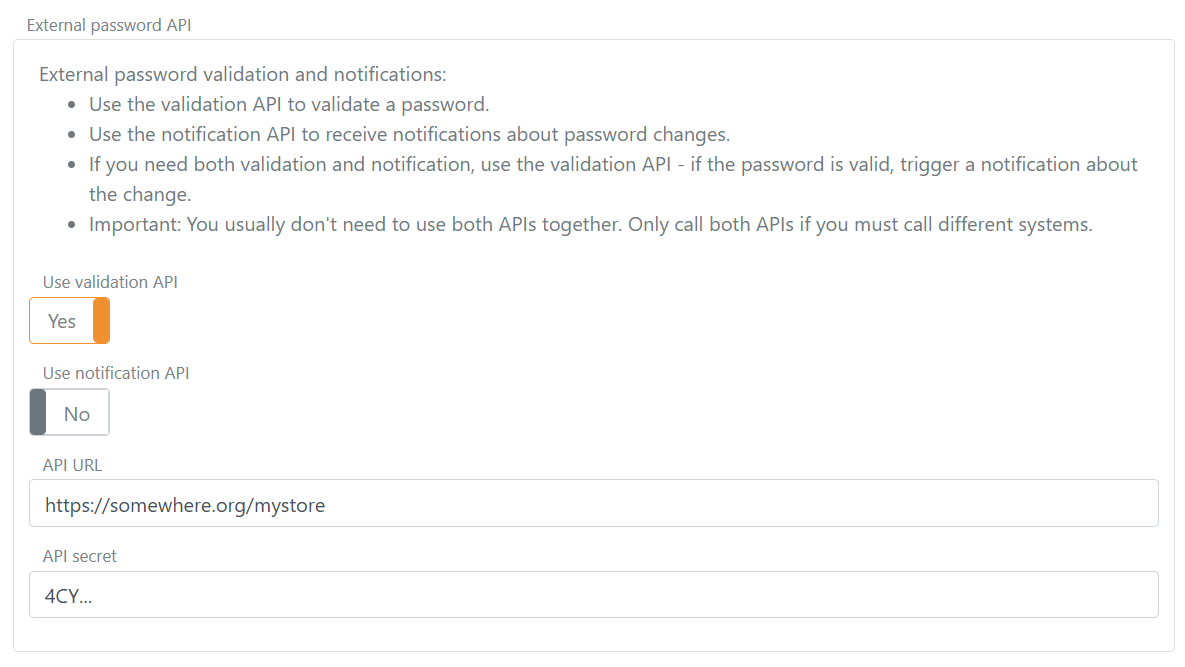
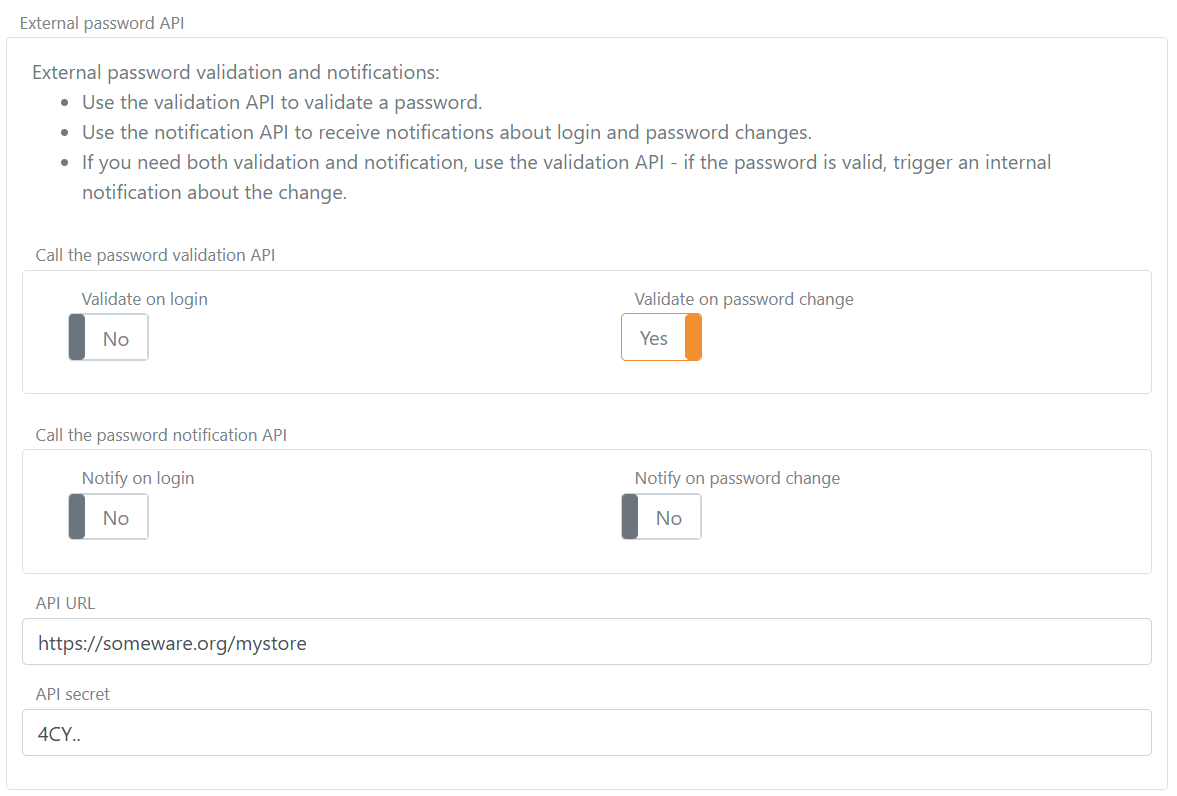
Adds granular controls for the External Password API so you can independently enable calls to the Validation and Notification endpoints

Changed region(s): [[0.0, 0.0, 0.9788, 0.7196], [0.0, 0.7496, 0.2753, 0.9295], [0.52, 0.5997, 0.7035, 0.6897]]

diff --git a/src/FoxIDs/Logic/Tracks/ExternalPasswordConnectLogic.cs b/src/FoxIDs/Logic/Tracks/ExternalPasswordConnectLogic.cs
@@ -26,9 +26,10 @@ namespace FoxIDs.Logic
 
         public async Task ValidatePasswordAsync(UserIdentifier userIdentifier, string password, PasswordState state)
         {
-            if (Config?.EnabledValidation != true) return;
+            var externalPassword = RouteBinding.ExternalPassword;
+            if (externalPassword == null || (!externalPassword.EnabledValidationCurrent && !externalPassword.EnabledValidationNew)) return;
 
-            var url = UrlCombine.Combine(Config.ApiUrl, Constants.ExternalConnect.ExternalPassword.Api.Validation);
+            var url = UrlCombine.Combine(externalPassword.ApiUrl, Constants.ExternalConnect.ExternalPassword.Api.Validation);
             logger.ScopeTrace(() => $"External password, Validation API request, URL '{url}'.", traceType: TraceTypes.Message);
 
             var request = new Ext.PasswordRequest
@@ -43,8 +44,8 @@ namespace FoxIDs.Logic
             logger.ScopeTrace(() => $"External password, Validation API request '{new { request.Email, request.Phone, request.Username, password = "hidden" }.ToJson()}'.", traceType: TraceTypes.Message);
 
             var httpClient = httpClientFactory.CreateClient();
-            logger.ScopeTrace(() => $"External password, Validation API secret '{(Config.Secret?.Length > 10 ? $"{Config.Secret.Substring(0, 3)}..." : "hidden")}'.", traceType: TraceTypes.Message);
-            httpClient.DefaultRequestHeaders.Authorization = new AuthenticationHeaderValue(IdentityConstants.BasicAuthentication.Basic, $"{Constants.ExternalConnect.ExternalPassword.Api.ApiId.OAuthUrlDencode()}:{Config.Secret.OAuthUrlDencode()}".Base64Encode());
+            logger.ScopeTrace(() => $"External password, Validation API secret '{(externalPassword.Secret?.Length > 10 ? $"{externalPassword.Secret.Substring(0, 3)}..." : "hidden")}'.", traceType: TraceTypes.Message);
+            httpClient.DefaultRequestHeaders.Authorization = new AuthenticationHeaderValue(IdentityConstants.BasicAuthentication.Basic, $"{Constants.ExternalConnect.ExternalPassword.Api.ApiId.OAuthUrlDencode()}:{externalPassword.Secret.OAuthUrlDencode()}".Base64Encode());
 
             try
             {
@@ -66,7 +67,7 @@ namespace FoxIDs.Logic
 
                         if (errorResponse.Error == Constants.ExternalConnect.Api.ErrorCodes.InvalidApiIdOrSecret)
                         {
-                            throw new InvalidAppIdOrSecretException($"Invalid app id '{Constants.ExternalConnect.ExternalPassword.Api.ApiId}' or secret '{(Config.Secret?.Length > 10 ? $"{Config.Secret.Substring(0, 3)}..." : "hidden")}', API URL '{url}'. Status code={response.StatusCode}.{errorResponse.GetErrorMessage()}");
+                            throw new InvalidAppIdOrSecretException($"Invalid app id '{Constants.ExternalConnect.ExternalPassword.Api.ApiId}' or secret '{(externalPassword.Secret?.Length > 10 ? $"{externalPassword.Secret.Substring(0, 3)}..." : "hidden")}', API URL '{url}'. Status code={response.StatusCode}.{errorResponse.GetErrorMessage()}");
                         }
 
                         if (errorResponse.Error == Constants.ExternalConnect.ExternalPassword.Api.ErrorCodes.PasswordNotAccepted)
@@ -103,9 +104,10 @@ namespace FoxIDs.Logic
 
         public async Task PasswordNotificationAsync(UserIdentifier userIdentifier, string password, PasswordState state)
         {
-            if (Config?.EnabledNotification != true) return;
+            var externalPassword = RouteBinding.ExternalPassword;
+            if (externalPassword == null || (!externalPassword.EnabledNotificationCurrent && !externalPassword.EnabledNotificationNew)) return;
 
-            var url = UrlCombine.Combine(Config.ApiUrl, Constants.ExternalConnect.ExternalPassword.Api.Notification);
+            var url = UrlCombine.Combine(externalPassword.ApiUrl, Constants.ExternalConnect.ExternalPassword.Api.Notification);
             logger.ScopeTrace(() => $"External password, Notification API request, URL '{url}'.", traceType: TraceTypes.Message);
 
             var request = new Ext.PasswordRequest
@@ -120,8 +122,8 @@ namespace FoxIDs.Logic
             logger.ScopeTrace(() => $"External password, Notification API request '{new { request.Email, request.Phone, request.Username, password = "hidden" }.ToJson()}'.", traceType: TraceTypes.Message);
 
             var httpClient = httpClientFactory.CreateClient();
-            logger.ScopeTrace(() => $"External password, Notification API secret '{(Config.Secret?.Length > 10 ? $"{Config.Secret.Substring(0, 3)}..." : "hidden")}'.", traceType: TraceTypes.Message);
-            httpClient.DefaultRequestHeaders.Authorization = new AuthenticationHeaderValue(IdentityConstants.BasicAuthentication.Basic, $"{Constants.ExternalConnect.ExternalPassword.Api.ApiId.OAuthUrlDencode()}:{Config.Secret.OAuthUrlDencode()}".Base64Encode());
+            logger.ScopeTrace(() => $"External password, Notification API secret '{(externalPassword.Secret?.Length > 10 ? $"{externalPassword.Secret.Substring(0, 3)}..." : "hidden")}'.", traceType: TraceTypes.Message);
+            httpClient.DefaultRequestHeaders.Authorization = new AuthenticationHeaderValue(IdentityConstants.BasicAuthentication.Basic, $"{Constants.ExternalConnect.ExternalPassword.Api.ApiId.OAuthUrlDencode()}:{externalPassword.Secret.OAuthUrlDencode()}".Base64Encode());
 
             try
             {
@@ -143,7 +145,7 @@ namespace FoxIDs.Logic
 
                         if (errorResponse.Error == Constants.ExternalConnect.Api.ErrorCodes.InvalidApiIdOrSecret)
                         {
-                            throw new InvalidAppIdOrSecretException($"Invalid app id '{Constants.ExternalConnect.ExternalPassword.Api.ApiId}' or secret '{(Config.Secret?.Length > 10 ? $"{Config.Secret.Substring(0, 3)}..." : "hidden")}', API URL '{url}'. Status code={response.StatusCode}.{errorResponse.GetErrorMessage()}");
+                            throw new InvalidAppIdOrSecretException($"Invalid app id '{Constants.ExternalConnect.ExternalPassword.Api.ApiId}' or secret '{(externalPassword.Secret?.Length > 10 ? $"{externalPassword.Secret.Substring(0, 3)}..." : "hidden")}', API URL '{url}'. Status code={response.StatusCode}.{errorResponse.GetErrorMessage()}");
                         }
                         throw new Exception($"External password, Notification API error '{resultError}'. Status code={response.StatusCode}.{errorResponse.GetErrorMessage()}");
 
@@ -166,8 +168,6 @@ namespace FoxIDs.Logic
                 throw new Exception($"Unable to call external password notification API URL '{url}'.", ex);
             }
         }
-
-        private ExternalPassword Config => RouteBinding.ExternalPassword;
 
         private Ext.PasswordState ToExtPasswordState(PasswordState state)
         {

diff --git a/src/FoxIDs/Logic/Login/AccountLogic.cs b/src/FoxIDs/Logic/Login/AccountLogic.cs
@@ -122,14 +122,30 @@ namespace FoxIDs.Logic
         {
             await base.ValidatePasswordPolicyAndNotifyAsync(userIdentifier, password, state);
 
-            if (RouteBinding?.ExternalPassword?.EnabledValidation == true)
+            var externalPassword = RouteBinding.ExternalPassword;
+            if (externalPassword != null)
             {
-                await externalPasswordConnectLogic.ValidatePasswordAsync(userIdentifier, password, state);
-            }
+                var doValidate = state switch
+                {
+                    PasswordState.Current => externalPassword.EnabledValidationCurrent,
+                    PasswordState.New => externalPassword.EnabledValidationNew,
+                    _ => false
+                };
+                if (doValidate)
+                {
+                    await externalPasswordConnectLogic.ValidatePasswordAsync(userIdentifier, password, state);
+                }
 
-            if (RouteBinding?.ExternalPassword?.EnabledNotification == true && state == PasswordState.New)
-            {
-                await externalPasswordConnectLogic.PasswordNotificationAsync(userIdentifier, password, state);
+                var doNotify = state switch
+                {
+                    PasswordState.Current => externalPassword.EnabledNotificationCurrent,
+                    PasswordState.New => externalPassword.EnabledNotificationNew,
+                    _ => false
+                };
+                if (doNotify)
+                {
+                    await externalPasswordConnectLogic.PasswordNotificationAsync(userIdentifier, password, state);
+                }
             }
         }
 

diff --git a/src/FoxIDs.ControlClient/Models/ViewModels/Tracks/ExternalPasswordViewModel.cs b/src/FoxIDs.ControlClient/Models/ViewModels/Tracks/ExternalPasswordViewModel.cs
@@ -7,11 +7,17 @@ namespace FoxIDs.Client.Models.ViewModels
 {
     public class ExternalPasswordViewModel : IValidatableObject
     {
-        [Display(Name = "Use validation API")]
-        public bool EnabledValidation { get; set; }
+        [Display(Name = "Validate on login")]
+        public bool EnabledValidationCurrent { get; set; }
 
-        [Display(Name = "Use notification API")]
-        public bool EnabledNotification { get; set; }
+        [Display(Name = "Validate on password change")]
+        public bool EnabledValidationNew { get; set; }
+
+        [Display(Name = "Notify on login")]
+        public bool EnabledNotificationCurrent { get; set; }
+
+        [Display(Name = "Notify on password change")]
+        public bool EnabledNotificationNew { get; set; }
 
         public ExternalConnectTypes ExternalConnectType { get; set; } = ExternalConnectTypes.Api;
 
@@ -33,7 +39,7 @@ namespace FoxIDs.Client.Models.ViewModels
         {
             var results = new List<ValidationResult>();
 
-            if (EnabledValidation || EnabledNotification)
+            if (EnabledValidationCurrent || EnabledValidationNew || EnabledNotificationCurrent || EnabledNotificationNew)
             {
                 if (ApiUrl.IsNullOrWhiteSpace())
                 {

diff --git a/src/FoxIDs.Shared/Models/Tracks/ExternalPassword.cs b/src/FoxIDs.Shared/Models/Tracks/ExternalPassword.cs
@@ -7,11 +7,17 @@ namespace FoxIDs.Models
 {
     public class ExternalPassword : IValidatableObject
     {
-        [JsonProperty(PropertyName = "enabled_validation")]
-        public bool EnabledValidation { get; set; }
+        [JsonProperty(PropertyName = "enabled_validation_current")]
+        public bool EnabledValidationCurrent { get; set; }
 
-        [JsonProperty(PropertyName = "enabled_notification")]
-        public bool EnabledNotification { get; set; }
+        [JsonProperty(PropertyName = "enabled_validation_new")]
+        public bool EnabledValidationNew { get; set; }
+
+        [JsonProperty(PropertyName = "enabled_notification_current")]
+        public bool EnabledNotificationCurrent { get; set; }
+
+        [JsonProperty(PropertyName = "enabled_notification_new")]
+        public bool EnabledNotificationNew { get; set; }
 
         [Display(Name = "External connect type")]
         public ExternalConnectTypes ExternalConnectType { get; set; }

diff --git a/src/FoxIDs.ControlShared/Models/Api/Tracks/ExternalPassword.cs b/src/FoxIDs.ControlShared/Models/Api/Tracks/ExternalPassword.cs
@@ -6,11 +6,17 @@ namespace FoxIDs.Models.Api
 {
     public class ExternalPassword : IValidatableObject
     {
-        [Display(Name = "Enabled validation")]
-        public bool EnabledValidation { get; set; }
+        [Display(Name = "Validate on current password")]
+        public bool EnabledValidationCurrent { get; set; }
 
-        [Display(Name = "Enabled notification")]
-        public bool EnabledNotification { get; set; }
+        [Display(Name = "Validate on new password")]
+        public bool EnabledValidationNew { get; set; }
+
+        [Display(Name = "Notify on current password")]
+        public bool EnabledNotificationCurrent { get; set; }
+
+        [Display(Name = "Notify on new password")]
+        public bool EnabledNotificationNew { get; set; }
 
         [Display(Name = "External connect type")]
         public ExternalConnectTypes ExternalConnectType { get; set; }

diff --git a/docs/external-password-api.md b/docs/external-password-api.md
@@ -9,7 +9,7 @@ You implement the external password API and configure FoxIDs to call it.
 If the built-in password policy rejects the password, the external password API is not called. The external password API's notification method is only called if the password has passed all configured policy checks and only when the password state is 200 (new password).
 
 If you require both validation and change notification, and both can be handled by the same system, implement only the validation API. 
-When you receive a validation request where the password is accepted, perform your notification logic internally. Implement both endpoints only if you must call two different backend systems.
+When you receive a validation request where the password is accepted, perform your notification logic internally. Implement both endpoints only if needed, e.g. if you have call two different backend systems.
 
 External password API can be [configured as password check](users-internal.md#password-check) for [internal users](users-internal.md).
 
@@ -104,7 +104,7 @@ The external password API is configured in the environment settings in the [FoxI
 1. Select the **Settings** tab
 2. And subsequently select the **Environment** tab
 3. Find the **External password API** section
-4. Select **Use validation API** or **Use notification API**, or in rare cases both.
+4. Select **Validate on password change** to enforce an external password policy before a new password is set for a user.
 5. Add the base API URL without the `validation` and `notification` folders in **API URL**
 6. Add the **API secret**
    ![Configure the external password API](images/configure-external-password-api.png)
